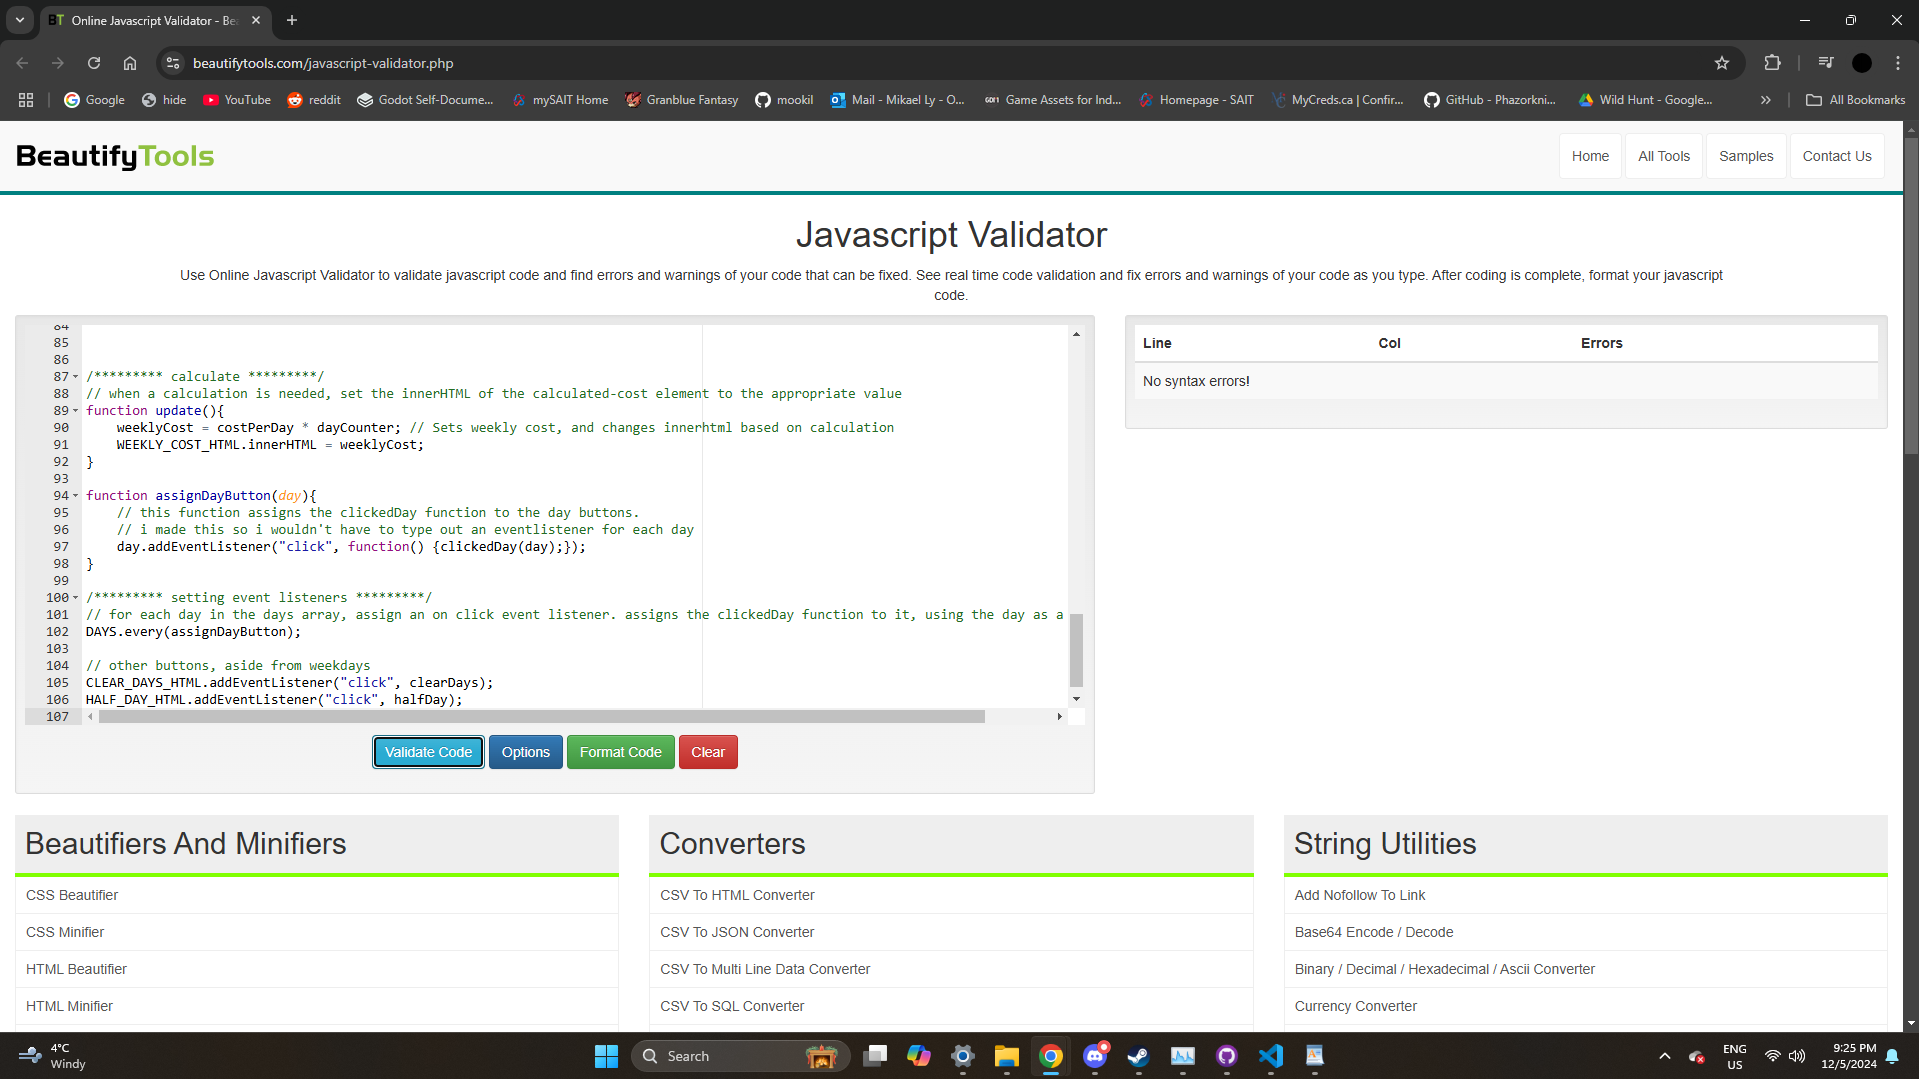
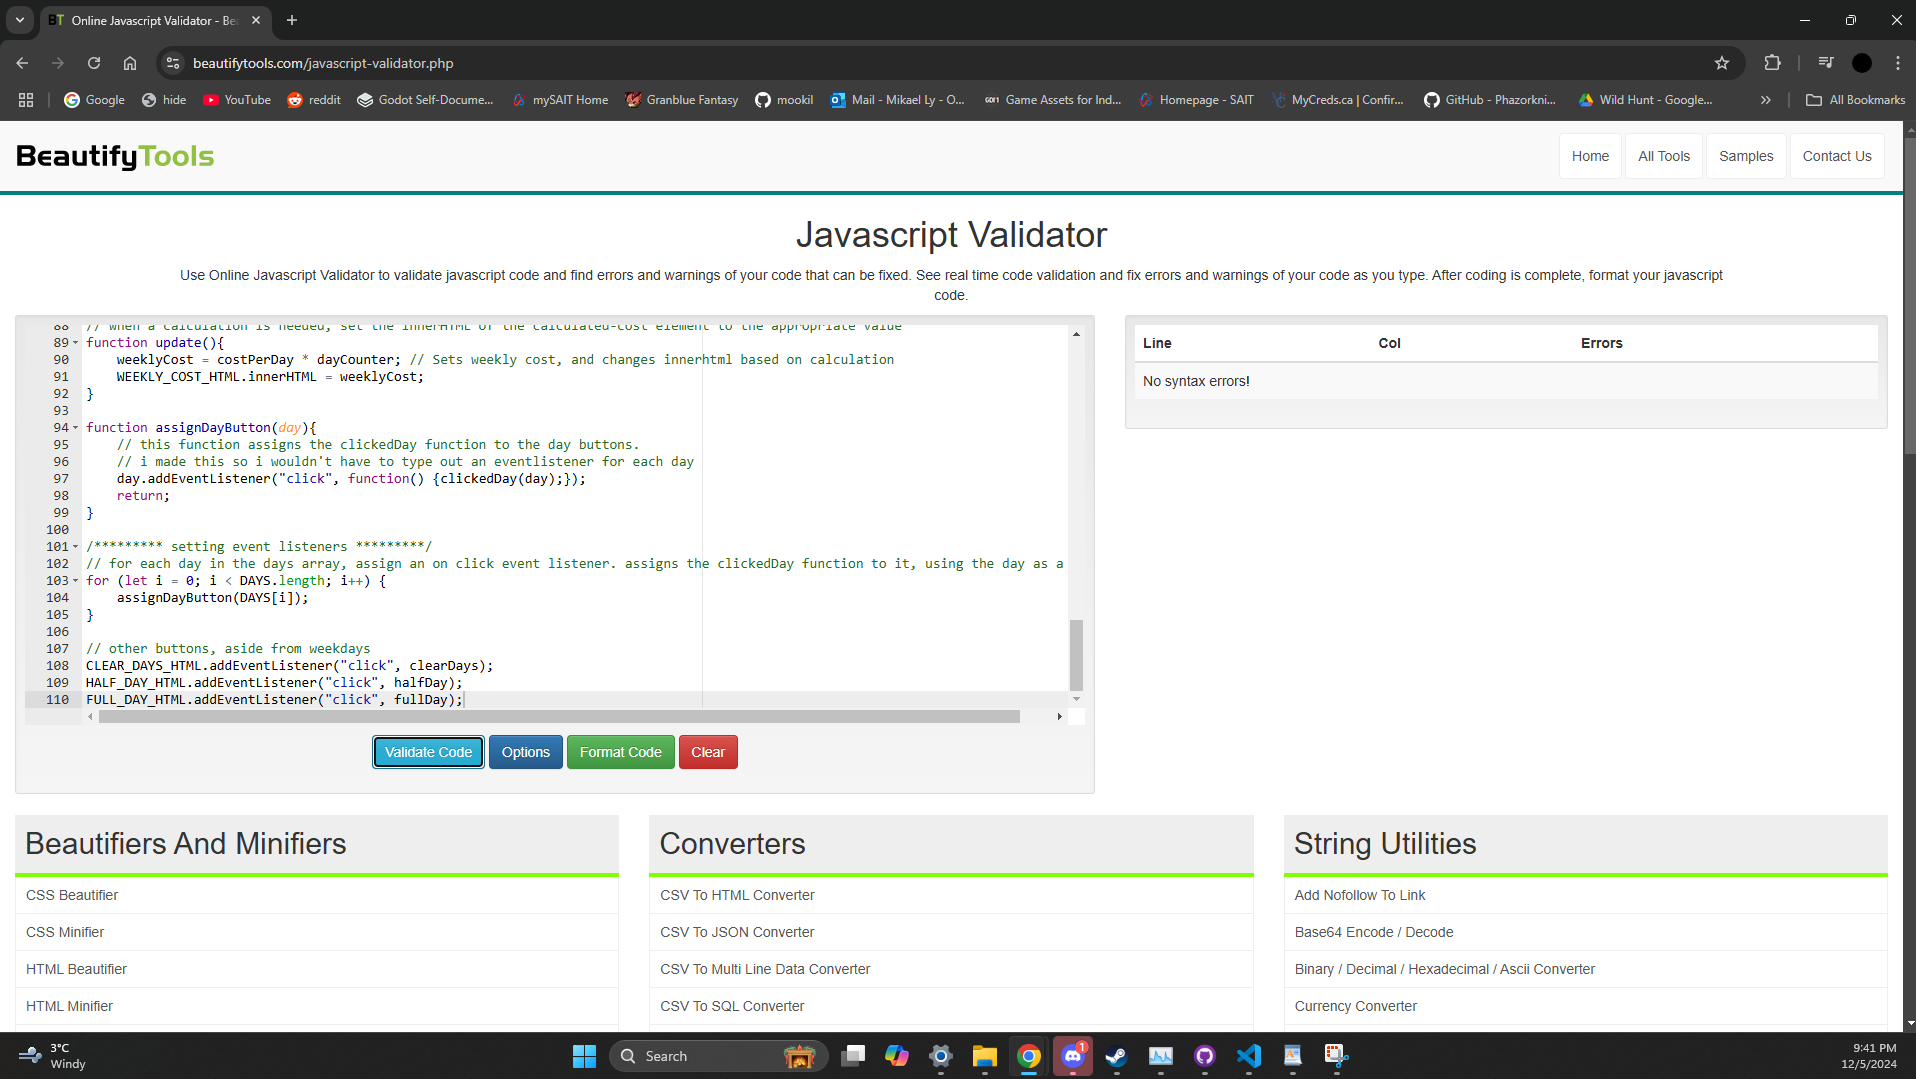
fixed booking

diff --git a/scripts/booking.js b/scripts/booking.js
@@ -95,11 +95,14 @@ function assignDayButton(day){
     // this function assigns the clickedDay function to the day buttons.
     // i made this so i wouldn't have to type out an eventlistener for each day
     day.addEventListener("click", function() {clickedDay(day);});
+    return;
 }
 
 /********* setting event listeners *********/
 // for each day in the days array, assign an on click event listener. assigns the clickedDay function to it, using the day as a parameter
-DAYS.every(assignDayButton);
+for (let i = 0; i < DAYS.length; i++) {
+    assignDayButton(DAYS[i]);
+}
 
 // other buttons, aside from weekdays
 CLEAR_DAYS_HTML.addEventListener("click", clearDays);
